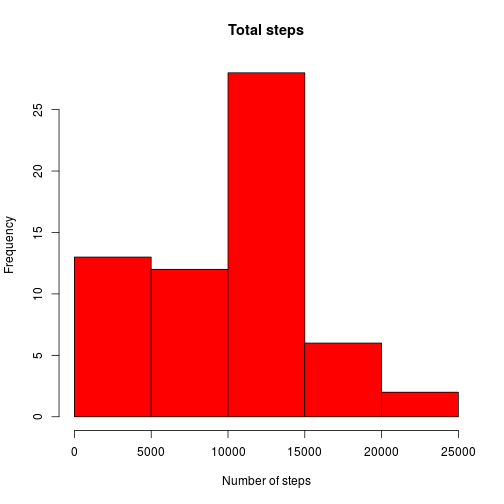
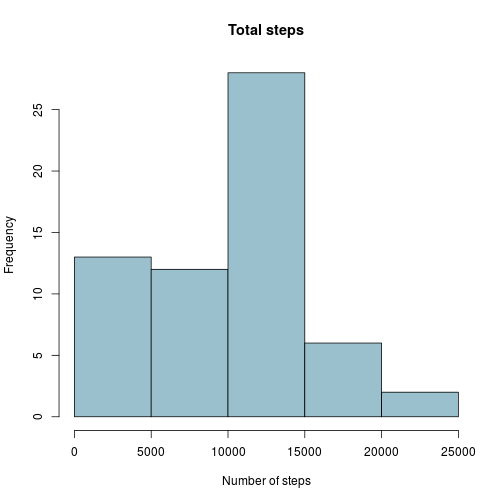
Updated figure

Changed region(s): [[0.1488, 0.119, 0.9226, 0.8333]]

diff --git a/PA1_template.html b/PA1_template.html
@@ -223,8 +223,7 @@ dat &lt;- unz(file.zip, file.csv) %&gt;%
        read.csv(as.is = TRUE,
                 colClasses = c(&quot;integer&quot;, &quot;Date&quot;, &quot;integer&quot;),
                 check.names = FALSE) %&gt;%
-       data.table %&gt;%
-       setkey(date, interval)
+       data.table
 
 # Print data summary
 summary(dat)
@@ -249,10 +248,10 @@ totalsteps &lt;- dat[, sum(steps, na.rm = TRUE), by = date][,V1]
 hist(totalsteps,
      main = &quot;Total steps&quot;,
      xlab = &quot;Number of steps&quot;,
-     col = &quot;red&quot;)
+     col = &quot;lightblue3&quot;)
 </code></pre>
 
[2 lines of base64/hex data omitted]
 
 <pre><code class="r"># Calculate the mean and median of the total number of steps taken per day
 mean(totalsteps)

diff --git a/PA1_template.md b/PA1_template.md
@@ -30,8 +30,7 @@ dat <- unz(file.zip, file.csv) %>%
        read.csv(as.is = TRUE,
                 colClasses = c("integer", "Date", "integer"),
                 check.names = FALSE) %>%
-       data.table %>%
-       setkey(date, interval)
+       data.table
 
 # Print data summary
 summary(dat)
@@ -59,7 +58,7 @@ totalsteps <- dat[, sum(steps, na.rm = TRUE), by = date][,V1]
 hist(totalsteps,
      main = "Total steps",
      xlab = "Number of steps",
-     col = "red")
+     col = "lightblue3")
 ```
 
 ![plot of chunk meansteps](figure/meansteps-1.png) 
